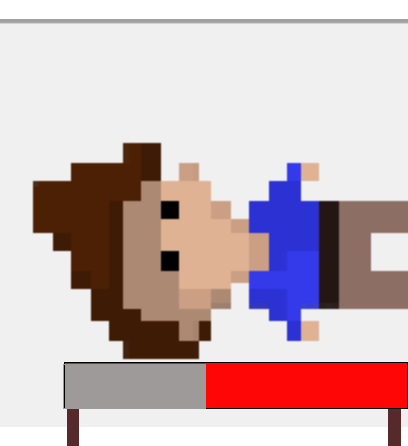
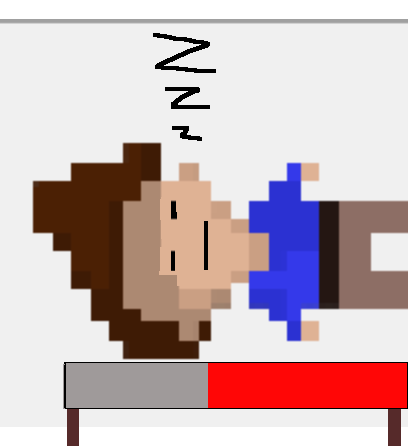
victoire

diff --git a/main.py b/main.py
@@ -65,6 +65,9 @@ menuBackground = pygame.transform.scale(menuBackground, (width, height))
 gameOver = pygame.image.load('images/Game_Over.png')
 gameOver= pygame.transform.scale(gameOver, (width,height))
 
+gameWin = pygame.image.load('images/fin_bed.png')
+gameWin = pygame.transform.scale(gameWin, (width,height))
+
 
 def drawGrid(w, r, surface):
     sizeBtwn = w // r
@@ -126,13 +129,16 @@ def redrawWindow(lvl,level,game):
 def main():
     # Game runing variables
     running = True
-    lvle=0
+    lvle=3
     level,game=chgmtNiv(lvle)
+
     inGame = game.is_playing
     inMenu = game.menu
     finMenu = False
     game_Over = game.game_over 
+    game_Win = game.game_wined
     est_vivant = game.player.health >= 1
+    
     score = 0
     
     
@@ -179,15 +185,17 @@ def main():
             game.player.moveSaut()        
 
             if game.check_collisionMonstre(game.player, game.all_decors):
+                if lvle >= 3:
+                    game_Win = True
+                    inGame = False
+                else:
                     score += game.score
                     lvle += 1
                     level,game=chgmtNiv(lvle)
-                       
-            
-              
+           
         else:      
             inGame = False
-            game.player.est_vivant= False
+            
 
         if inMenu:
             for event in pygame.event.get():
@@ -218,12 +226,26 @@ def main():
                     if event.key == K_ESCAPE :
                         pygame.quit()
                         sys.exit()
-                    if event.key == K_SPACE :
-                        inMenu = True
-                        inGame = False
+                    
             win.fill((0,0,0))
             win.blit(gameOver, (0,0))
             win.blit(game.score_text, (20,20))
+
+        elif game_Win:
+            for event in pygame.event.get():
+                if event.type == QUIT:
+                    inGame = False
+                    pygame.display.quit()
+                    pygame.quit()
+                    sys.exit()
+                    running = False
+                if event.type == KEYDOWN :
+                    if event.key == K_ESCAPE :
+                        pygame.quit()
+                        sys.exit()
+            win.fill((0,0,0))
+            win.blit(gameWin, (0,0))
+            win.blit(game.score_text, (600,500))
             
 
         pygame.display.update()

diff --git a/game.py b/game.py
@@ -12,6 +12,7 @@ class Game :
         self.is_playing = False
         self.menu = True
         self.game_over = False 
+        self.game_wined = False
         self.tt_players = pygame.sprite.Group()
         self.level = level
         self.player = Player(self)
@@ -110,4 +111,5 @@ class Game :
         self.font = pygame.font.SysFont("monospace", 16)
         self.score_text = self.font.render(f"Score :  {self.score}",1,(255,255,255))
         surface.blit(self.score_text, (20,20))
+
         
